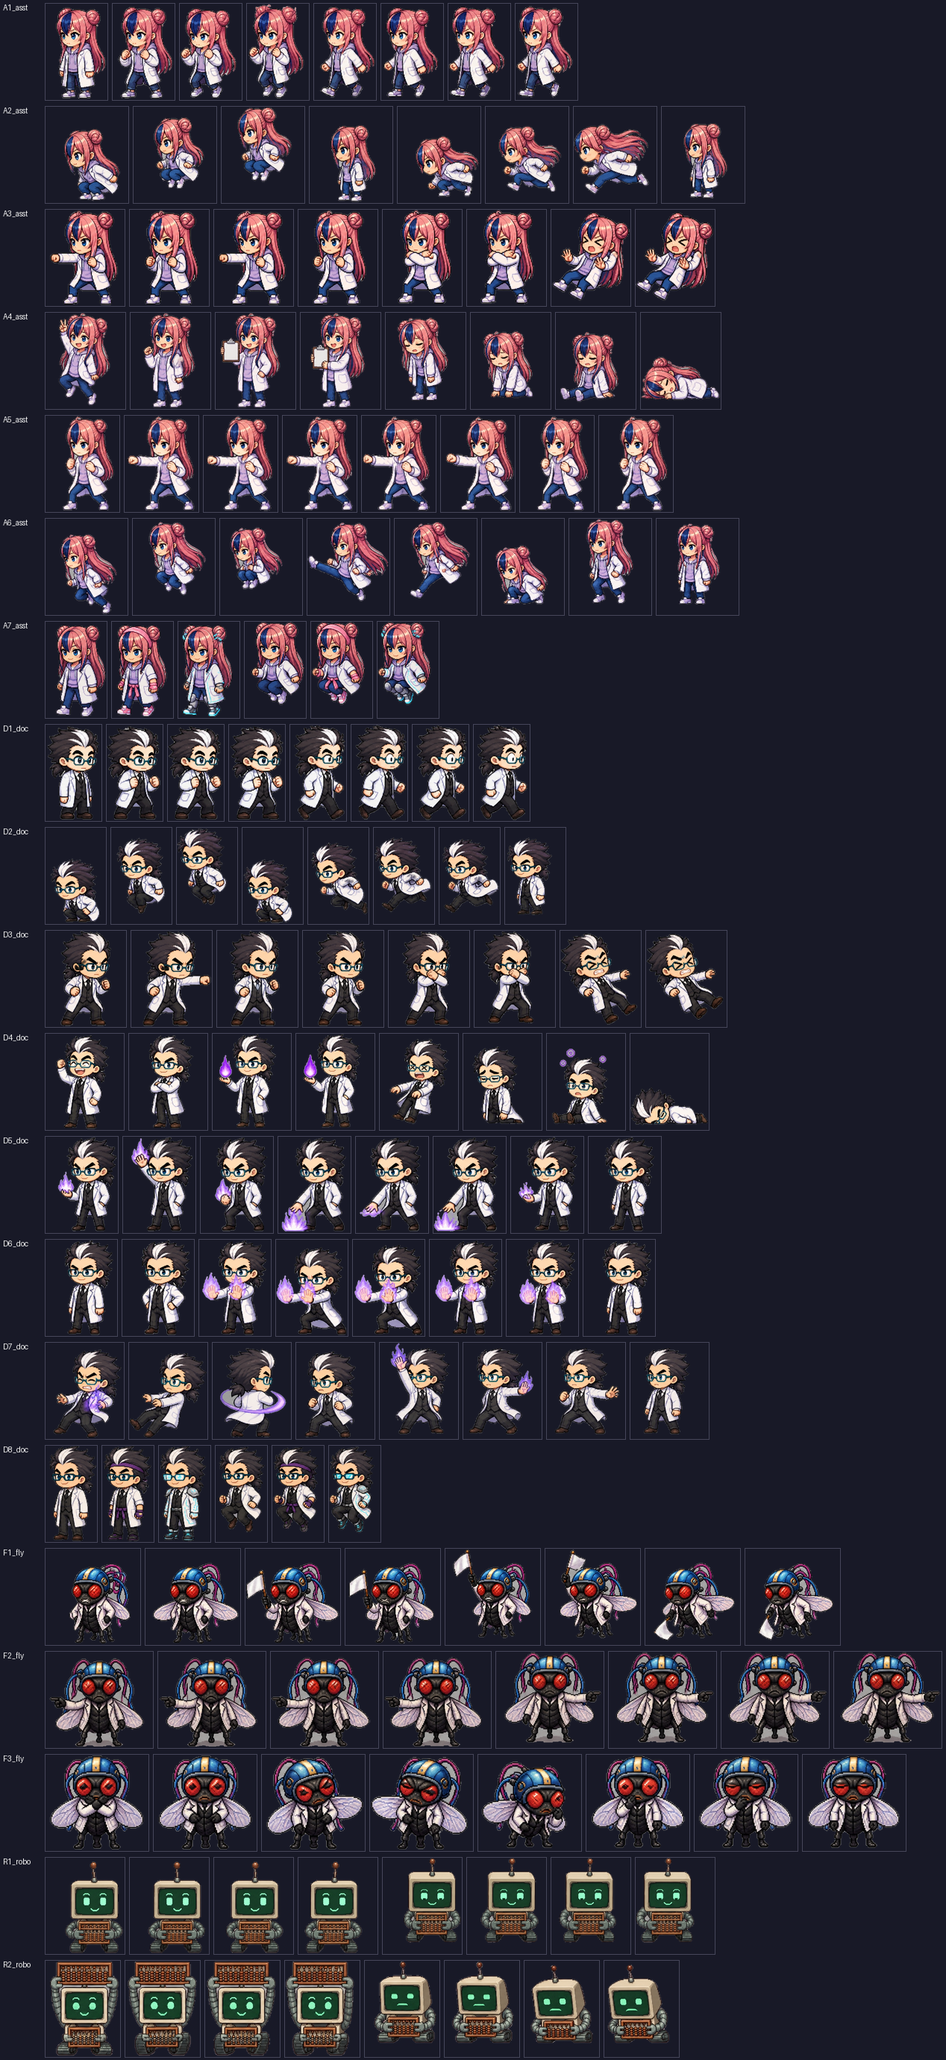
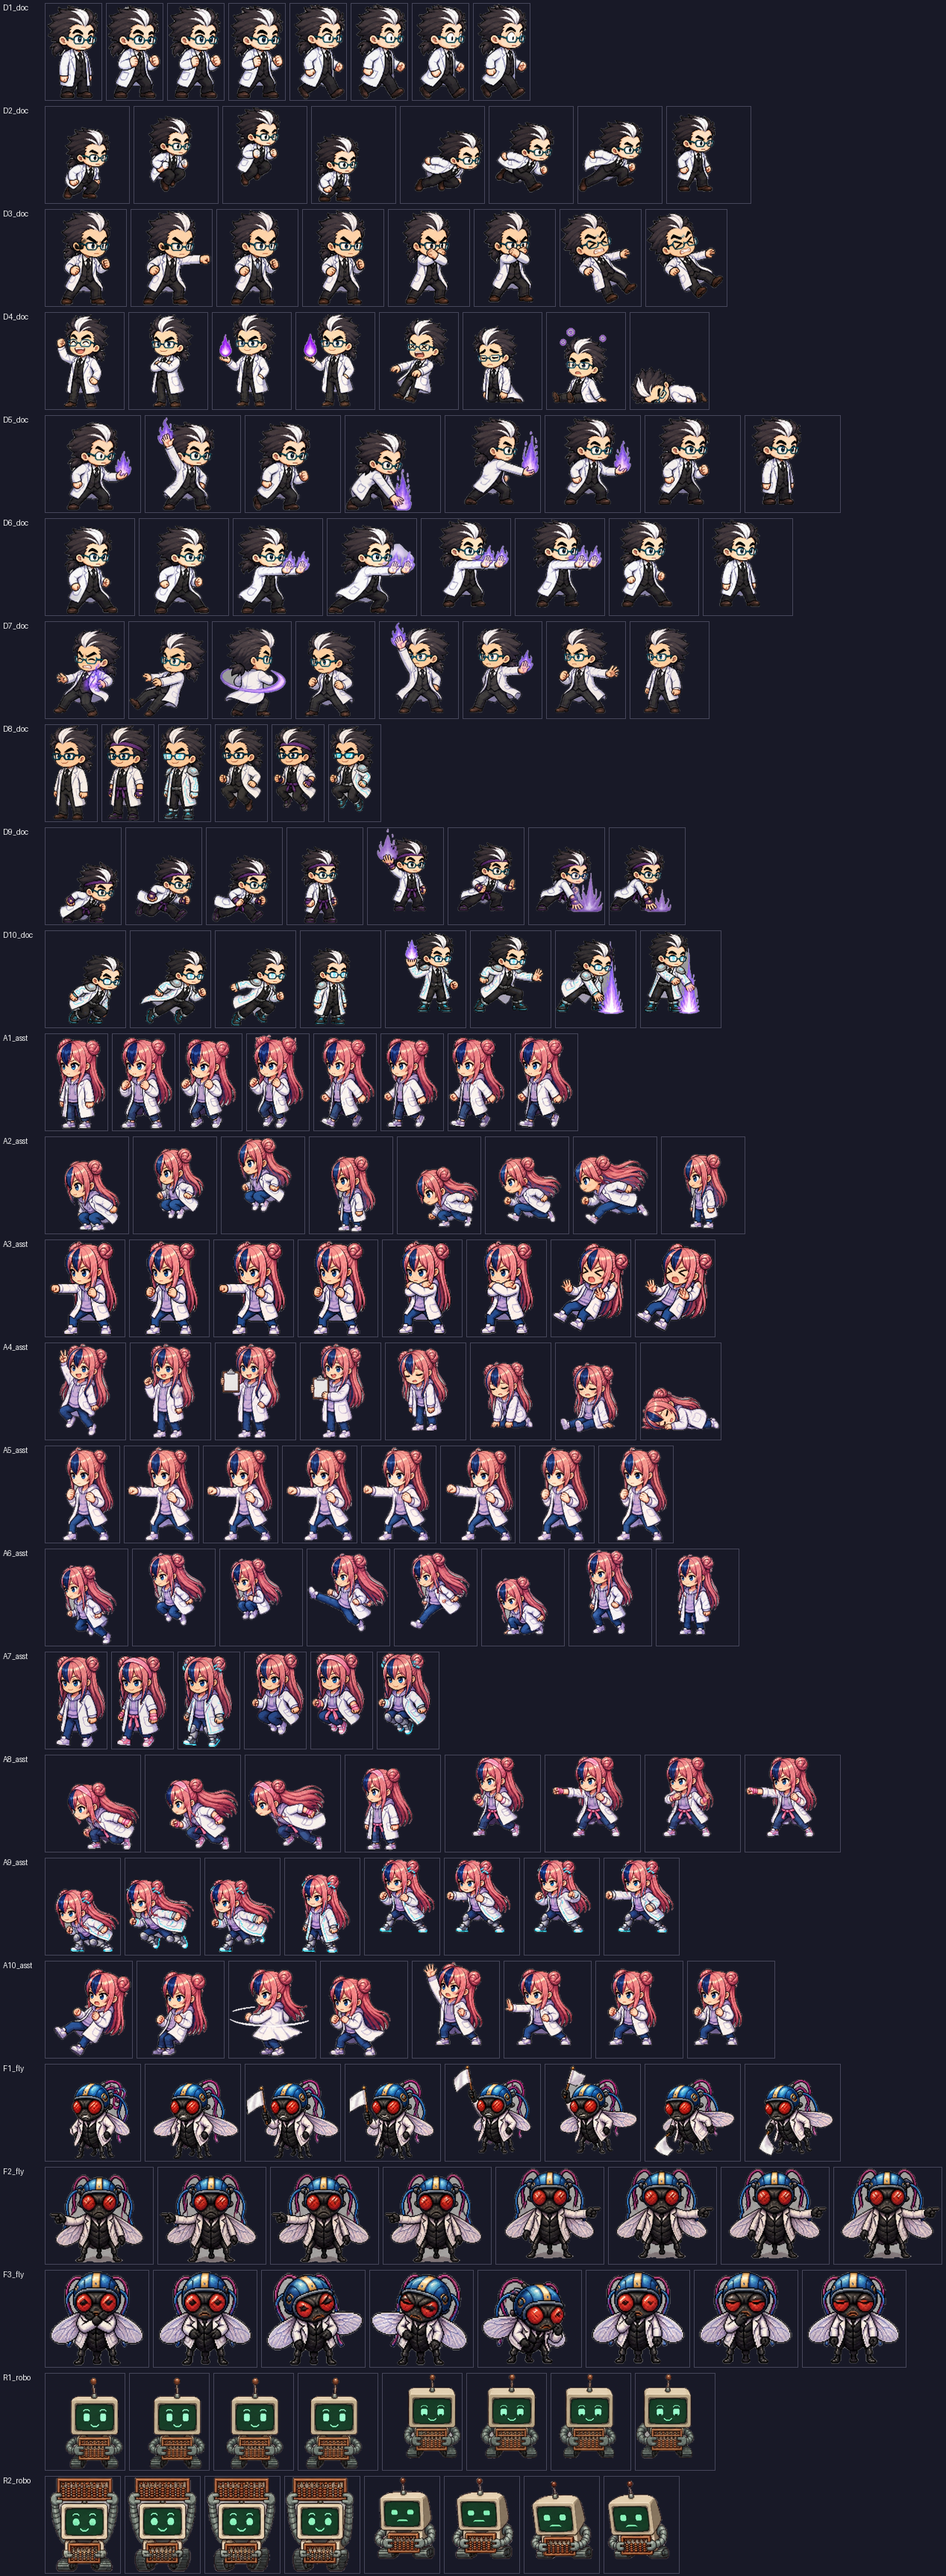
본 스킬 v1.12 · 캐릭터 팩 1.3: 동작 팩 fight 1.1 (D2·D5·D6 다시 그림, 의상별 동작 D9·D10·A8·A9, 조수 역전파 카운터 A10, 의상 축 규칙)

diff --git a/packs/character/motion_pack/PROMPTS_fight_v1.1.md b/packs/character/motion_pack/PROMPTS_fight_v1.1.md
@@ -1,0 +1,108 @@
+# 동작 팩 fight 1.1 — 추가 시트 8장 지침서
+
+이전 20장(fight 1.0)과 **같은 방식**입니다. 다른 점은 아래 세 가지뿐입니다.
+
+1. **방향을 맨 앞에 못 박았습니다.** 박사는 오른쪽, 조수는 왼쪽(둘이 마주 봄). 프롬프트 첫 문장 뒤에 `IMPORTANT: … faces RIGHT/LEFT` 가 들어 있습니다.
+2. **참고 그림은 방향이 맞는 시트만** 첨부합니다. 각 시트의 "첨부" 칸을 보세요. 지금의 D2·D5·D6(왼쪽을 보는 시트)은 **첨부하지 마세요.** 생성기가 방향까지 따라 합니다.
+3. 의상 동작(D9·D10·A8·A9)은 의상 시트(D8·A7)에서 해당 칸을 잘라 첨부하면 의상이 덜 흔들립니다.
+
+## 넣는 법 (매번)
+- 첨부: 표정 기본 그림(`doc_front` / `asst_smile`) + 설정샷 3면도(박사 k02, 조수 k03) + 표의 "첨부" 시트
+- 한국어 한 줄을 앞에 붙임: *"첨부한 캐릭터와 똑같은 얼굴·색·비율로, 아래 영어 프롬프트대로 그려 줘. 방향이 가장 중요해."*
+- 비율 16:9, 가장 큰 해상도
+- 받은 뒤 확인: 모든 칸에서 박사는 오른쪽, 조수는 왼쪽을 보는지 · 배경이 단색 회색인지 · 글자·효과선이 없는지
+- 파일 이름: `D2_doc.png`, `D9_doc.png`, `A10_asst.png` … (시트번호_캐릭터). 다시 그린 D2·D5·D6은 **같은 이름**으로 주시면 바꿔 끼웁니다.
+
+## 시트 목록
+
+| 번호 | 내용 | 첨부할 기존 시트 | 왜 |
+|---|---|---|---|
+| D2 | 박사 · 점프·돌진 (다시 그리기) | D1_doc.png, D3_doc.png (오른쪽을 보는 시트) | 왼쪽을 보고 그려져 임시 반전 중 |
+| D5 | 박사 · 필살기 특이값 분해 참 (다시 그리기) | D1_doc.png, D7_doc.png | 왼쪽을 보고 그려져 임시 반전 중 |
+| D6 | 박사 · 필살기 브로드캐스트 웨이브 (다시 그리기) | D1_doc.png, D7_doc.png | 왼쪽을 보고 그려져 임시 반전 중 |
+| D9 | 박사 · 전투복 돌진·필살기 | D8_doc.png(의상 시트) 가운데 칸 + D1_doc.png | 새 시트 (복장 축 '전투복'의 돌진·필살기) |
+| D10 | 박사 · 사이버 돌진·필살기 | D8_doc.png 오른쪽 칸 + D1_doc.png | 새 시트 (복장 축 '사이버'의 돌진·필살기) |
+| A8 | 조수 · 전투복 돌진·필살기 | A7_asst.png(의상 시트) 가운데 칸 + A1_asst.png | 새 시트 (복장 축 '전투복'의 돌진·필살기) |
+| A9 | 조수 · 사이버 돌진·필살기 | A7_asst.png 오른쪽 칸 + A1_asst.png | 새 시트 (복장 축 '사이버'의 돌진·필살기) |
+| A10 | 조수 · 역전파 카운터 | A1_asst.png, A3_asst.png | 새 시트 (콤보 기술 '역전파 카운터') |
+
+급하면 **D5·D6 → D2 → A10** 순서로 주세요(필살기 화면에 바로 보이는 순서). 의상 4장은 나중에 주셔도 됩니다.
+
+---
+
+### D2 · 박사 · 점프·돌진 (다시 그리기)
+- 첨부: D1_doc.png, D3_doc.png (오른쪽을 보는 시트)
+
+```
+Pixel art sprite sheet of one original character: chibi scientist (big head, about 2.5 heads tall), thin teal rectangular glasses, spiky black hair with one white streak, small ponytail at the back, white lab coat over black vest and tie, dark trousers, brown shoes, side view (3/4 toward the viewer). IMPORTANT: the character faces RIGHT in every frame (looking toward the right edge of the image, the attacking hand and leg reach to the RIGHT). Do not mirror; keep the white hair streak on the same side as in the attached reference. Grid 4 columns x 2 rows, aspect ratio 16:9. Row 1: jump, 4 frames: crouch, rise with knees tucked, peak, land. Row 2: dash, 4 frames: lean forward low, rush toward the RIGHT, coat tails flying back to the left, stop. Same face, same proportions, same colors in every frame; only the pose changes. Keep the white hair streak on the same side in every frame. Never mirror the character. 16-bit RPG pixel art sprite sheet, crisp pixels, no anti-aliasing blur, bold dark outline (#1d1a22), 2-3 step cel shading with a tiny highlight, full body, same character scale and same ground line in every frame, every frame inside its own equal grid cell with empty margin, nothing crossing cell borders, flat solid plain medium gray background (#9e9e9e) with no gradient, no floor, no shadow, no scenery, no text, no letters, no numbers, no labels, no logo, no watermark, no extra visual effects beyond what is described, no motion lines, no speed lines.
+```
+
+---
+
+### D5 · 박사 · 필살기 특이값 분해 참 (다시 그리기)
+- 첨부: D1_doc.png, D7_doc.png
+
+```
+Pixel art sprite sheet of one original character: chibi scientist (big head, about 2.5 heads tall), thin teal rectangular glasses, spiky black hair with one white streak, small ponytail at the back, white lab coat over black vest and tie, dark trousers, brown shoes, side view (3/4 toward the viewer). IMPORTANT: the character faces RIGHT in every frame (looking toward the right edge of the image, the attacking hand and leg reach to the RIGHT). Do not mirror; keep the white hair streak on the same side as in the attached reference. Grid 4 columns x 2 rows, aspect ratio 16:9. special: singular value chop, 8 frames, read left to right then top to bottom: gather purple flame in the right hand, raise the hand high, step in toward the RIGHT, karate chop straight down with the open hand in front of the body on the RIGHT side, follow-through, hold the pose, recover; the purple flame grows on the hand only. Same face, same proportions, same colors in every frame; only the pose changes. Keep the white hair streak on the same side in every frame. Never mirror the character. 16-bit RPG pixel art sprite sheet, crisp pixels, no anti-aliasing blur, bold dark outline (#1d1a22), 2-3 step cel shading with a tiny highlight, full body, same character scale and same ground line in every frame, every frame inside its own equal grid cell with empty margin, nothing crossing cell borders, flat solid plain medium gray background (#9e9e9e) with no gradient, no floor, no shadow, no scenery, no text, no letters, no numbers, no labels, no logo, no watermark, no extra visual effects beyond what is described, no motion lines, no speed lines.
+```
+
+---
+
+### D6 · 박사 · 필살기 브로드캐스트 웨이브 (다시 그리기)
+- 첨부: D1_doc.png, D7_doc.png
+
+```
+Pixel art sprite sheet of one original character: chibi scientist (big head, about 2.5 heads tall), thin teal rectangular glasses, spiky black hair with one white streak, small ponytail at the back, white lab coat over black vest and tie, dark trousers, brown shoes, side view (3/4 toward the viewer). IMPORTANT: the character faces RIGHT in every frame (looking toward the right edge of the image, the attacking hand and leg reach to the RIGHT). Do not mirror; keep the white hair streak on the same side as in the attached reference. Grid 4 columns x 2 rows, aspect ratio 16:9. special: broadcast wave, 8 frames, read left to right then top to bottom: plant feet wide, pull both hands back to the hip on the LEFT, thrust both open palms forward to the RIGHT, hold the push while leaning to the RIGHT, slowly return; purple flame glows on both palms only. Same face, same proportions, same colors in every frame; only the pose changes. Keep the white hair streak on the same side in every frame. Never mirror the character. 16-bit RPG pixel art sprite sheet, crisp pixels, no anti-aliasing blur, bold dark outline (#1d1a22), 2-3 step cel shading with a tiny highlight, full body, same character scale and same ground line in every frame, every frame inside its own equal grid cell with empty margin, nothing crossing cell borders, flat solid plain medium gray background (#9e9e9e) with no gradient, no floor, no shadow, no scenery, no text, no letters, no numbers, no labels, no logo, no watermark, no extra visual effects beyond what is described, no motion lines, no speed lines.
+```
+
+---
+
+### D9 · 박사 · 전투복 돌진·필살기
+- 첨부: D8_doc.png(의상 시트) 가운데 칸 + D1_doc.png
+
+```
+Pixel art sprite sheet of one original character: chibi scientist (big head, about 2.5 heads tall), thin teal rectangular glasses, spiky black hair with one white streak, small ponytail at the back, white lab coat over black vest and tie, dark trousers, brown shoes, wearing the battle outfit: lab coat sleeves rolled up, purple headband, purple fingerless gloves, purple sash belt, black training shoes, side view (3/4 toward the viewer). IMPORTANT: the character faces RIGHT in every frame (looking toward the right edge of the image, the attacking hand and leg reach to the RIGHT). Do not mirror; keep the white hair streak on the same side as in the attached reference. Grid 4 columns x 2 rows, aspect ratio 16:9. Row 1: dash, 4 frames: lean forward low, rush toward the RIGHT, coat tails flying back, stop. Row 2: special chop, 4 key frames: raise the open hand with a purple flame, step in, chop straight down on the RIGHT side, hold. Same face, same proportions, same colors in every frame; only the pose changes. Keep the white hair streak on the same side in every frame. Never mirror the character. 16-bit RPG pixel art sprite sheet, crisp pixels, no anti-aliasing blur, bold dark outline (#1d1a22), 2-3 step cel shading with a tiny highlight, full body, same character scale and same ground line in every frame, every frame inside its own equal grid cell with empty margin, nothing crossing cell borders, flat solid plain medium gray background (#9e9e9e) with no gradient, no floor, no shadow, no scenery, no text, no letters, no numbers, no labels, no logo, no watermark, no extra visual effects beyond what is described, no motion lines, no speed lines.
+```
+
+---
+
+### D10 · 박사 · 사이버 돌진·필살기
+- 첨부: D8_doc.png 오른쪽 칸 + D1_doc.png
+
+```
+Pixel art sprite sheet of one original character: chibi scientist (big head, about 2.5 heads tall), thin teal rectangular glasses, spiky black hair with one white streak, small ponytail at the back, white lab coat over black vest and tie, dark trousers, brown shoes, wearing the cyber outfit: lab coat with thin glowing cyan circuit lines, cyan lens glow on the glasses, silver shoulder plates, cyan-soled boots, side view (3/4 toward the viewer). IMPORTANT: the character faces RIGHT in every frame (looking toward the right edge of the image, the attacking hand and leg reach to the RIGHT). Do not mirror; keep the white hair streak on the same side as in the attached reference. Grid 4 columns x 2 rows, aspect ratio 16:9. Row 1: dash, 4 frames: lean forward low, rush toward the RIGHT, coat tails flying back, stop. Row 2: special chop, 4 key frames: raise the open hand with a purple flame, step in, chop straight down on the RIGHT side, hold. Same face, same proportions, same colors in every frame; only the pose changes. Keep the white hair streak on the same side in every frame. Never mirror the character. 16-bit RPG pixel art sprite sheet, crisp pixels, no anti-aliasing blur, bold dark outline (#1d1a22), 2-3 step cel shading with a tiny highlight, full body, same character scale and same ground line in every frame, every frame inside its own equal grid cell with empty margin, nothing crossing cell borders, flat solid plain medium gray background (#9e9e9e) with no gradient, no floor, no shadow, no scenery, no text, no letters, no numbers, no labels, no logo, no watermark, no extra visual effects beyond what is described, no motion lines, no speed lines.
+```
+
+---
+
+### A8 · 조수 · 전투복 돌진·필살기
+- 첨부: A7_asst.png(의상 시트) 가운데 칸 + A1_asst.png
+
+```
+Pixel art sprite sheet of one original character: chibi girl researcher (big head, about 2.5 heads tall, slightly shorter than the doctor), long pink hair with two round buns and a navy streak, blue eyes, white lab coat over lavender hoodie, blue jeans, white sneakers, wearing the battle outfit: lab coat sleeves rolled up, pink headband, pink fingerless gloves, pink sash belt, sport sneakers, side view (3/4 toward the viewer). IMPORTANT: the character faces LEFT in every frame (attacks reach to the LEFT). Do not mirror. Grid 4 columns x 2 rows, aspect ratio 16:9. Row 1: dash, 4 frames: lean forward low, rush toward the LEFT, hair and coat flying back, stop. Row 2: one-hot barrage, 4 key frames: step in, left straight punch, right straight punch, final punch fully extended to the LEFT. Same face, same proportions, same colors in every frame; only the pose changes. Keep the navy hair streak on the same side in every frame. Never mirror the character. 16-bit RPG pixel art sprite sheet, crisp pixels, no anti-aliasing blur, bold dark outline (#1d1a22), 2-3 step cel shading with a tiny highlight, full body, same character scale and same ground line in every frame, every frame inside its own equal grid cell with empty margin, nothing crossing cell borders, flat solid plain medium gray background (#9e9e9e) with no gradient, no floor, no shadow, no scenery, no text, no letters, no numbers, no labels, no logo, no watermark, no extra visual effects beyond what is described, no motion lines, no speed lines.
+```
+
+---
+
+### A9 · 조수 · 사이버 돌진·필살기
+- 첨부: A7_asst.png 오른쪽 칸 + A1_asst.png
+
+```
+Pixel art sprite sheet of one original character: chibi girl researcher (big head, about 2.5 heads tall, slightly shorter than the doctor), long pink hair with two round buns and a navy streak, blue eyes, white lab coat over lavender hoodie, blue jeans, white sneakers, wearing the cyber outfit: lab coat with thin glowing cyan circuit lines, cyan visor-style hair clips, silver knee pads, cyan-soled boots, side view (3/4 toward the viewer). IMPORTANT: the character faces LEFT in every frame (attacks reach to the LEFT). Do not mirror. Grid 4 columns x 2 rows, aspect ratio 16:9. Row 1: dash, 4 frames: lean forward low, rush toward the LEFT, hair and coat flying back, stop. Row 2: one-hot barrage, 4 key frames: step in, left straight punch, right straight punch, final punch fully extended to the LEFT. Same face, same proportions, same colors in every frame; only the pose changes. Keep the navy hair streak on the same side in every frame. Never mirror the character. 16-bit RPG pixel art sprite sheet, crisp pixels, no anti-aliasing blur, bold dark outline (#1d1a22), 2-3 step cel shading with a tiny highlight, full body, same character scale and same ground line in every frame, every frame inside its own equal grid cell with empty margin, nothing crossing cell borders, flat solid plain medium gray background (#9e9e9e) with no gradient, no floor, no shadow, no scenery, no text, no letters, no numbers, no labels, no logo, no watermark, no extra visual effects beyond what is described, no motion lines, no speed lines.
+```
+
+---
+
+### A10 · 조수 · 역전파 카운터
+- 첨부: A1_asst.png, A3_asst.png
+
+```
+Pixel art sprite sheet of one original character: chibi girl researcher (big head, about 2.5 heads tall, slightly shorter than the doctor), long pink hair with two round buns and a navy streak, blue eyes, white lab coat over lavender hoodie, blue jeans, white sneakers, side view (3/4 toward the viewer). IMPORTANT: the character faces LEFT in every frame (attacks reach to the LEFT). Do not mirror. Grid 4 columns x 2 rows, aspect ratio 16:9. special: backpropagation counter, 8 frames, read left to right then top to bottom: take a hit pose leaning back, slide backward to the RIGHT, spin around once, reverse the momentum, deliver a rising palm strike upward toward the LEFT, land in a ready stance facing LEFT. Same face, same proportions, same colors in every frame; only the pose changes. Keep the navy hair streak on the same side in every frame. Never mirror the character. 16-bit RPG pixel art sprite sheet, crisp pixels, no anti-aliasing blur, bold dark outline (#1d1a22), 2-3 step cel shading with a tiny highlight, full body, same character scale and same ground line in every frame, every frame inside its own equal grid cell with empty margin, nothing crossing cell borders, flat solid plain medium gray background (#9e9e9e) with no gradient, no floor, no shadow, no scenery, no text, no letters, no numbers, no labels, no logo, no watermark, no extra visual effects beyond what is described, no motion lines, no speed lines.
+```
+
+---
+
+## 받은 뒤 제가 하는 일
+1. fruitfly-lab-expressions에 원본·프레임 추가, `motions.json`과 갤러리 갱신 (D2·D5·D6은 교체, 다시 그리기 표시 제거)
+2. ahnboat_lab_explainer 동작 팩을 fight 1.1로 (`motion_map.json`, 스트립, CHAR_lab4 C8 표, CHANGELOG)
+3. 특별편: 박사 임시 반전 제거, 전투복·사이버의 돌진·필살기를 의상 동작으로, 콤보에 조수 역전파 카운터 재생 → 검수 5회차 → 푸시

diff --git a/CHANGELOG.md b/CHANGELOG.md
@@ -1,5 +1,13 @@
 # 변경 기록
 
+## 2026-11-08 · 본 스킬 v1.12 · 캐릭터 팩 1.3 — 동작 팩 fight 1.1
+
+- **다시 그림:** 박사 D2(점프·돌진)·D5(특이값 분해 참)·D6(브로드캐스트 웨이브)를 오른쪽을 보도록. 이제 임시 반전이 필요한 시트가 없다
+- **추가:** 의상별 돌진·필살기 D9(박사 전투복)·D10(박사 사이버)·A8(조수 전투복)·A9(조수 사이버), 조수 역전파 카운터 A10. 25시트·196프레임. 원본: fruitfly-lab-expressions @ 1e875dd
+- **CHAR_lab4 C8:** 시트 표 갱신, "의상 축 고르기" 표(행동 × 의상 → 시트), 용량 600 KB, 새 시트 프롬프트 규칙(보는 쪽을 첫 문장 뒤에 못 박고, 방향이 맞는 참고 그림만)
+- **본 스킬 12-6:** 의상 축 규칙(색만 바꾸지 않고 의상 시트·의상별 동작 시트 사용), 용량 600 KB, 프롬프트 규칙, 반영 순서(캐릭터 저장소 → 동작 팩 → 페이지)
+- 프롬프트: `motion_pack/PROMPTS_fight_v1.1.md`
+
 ## 2026-11-08 · 본 스킬 v1.11 · 캐릭터 팩 1.2 — 동작 팩 fight 1.0
 
 - **동작 팩** `packs/character/motion_pack/` (CHAR_lab4 C8): 네 캐릭터의 전신 동작 시트 20장, 프레임 156장. 박사 D1~D8(서기·걷기, 점프·돌진, 잽·가드·피격, 승리·KO, 필살기 3종, 의상 3종), 조수 A1~A7(필살기 2종 포함), 초파리 F1~F3(심판), 주판봇 R1~R2(점수판). 128·192 가로 스트립 WebP, `motion_map.json`, `build_motion_pack.py`(`--pick`, 재생 함수 `drawMotion`), 생성 프롬프트 `PROMPTS_fight.md`. 원본: fruitfly-lab-expressions @ 5174c84 (`motions.html`)
